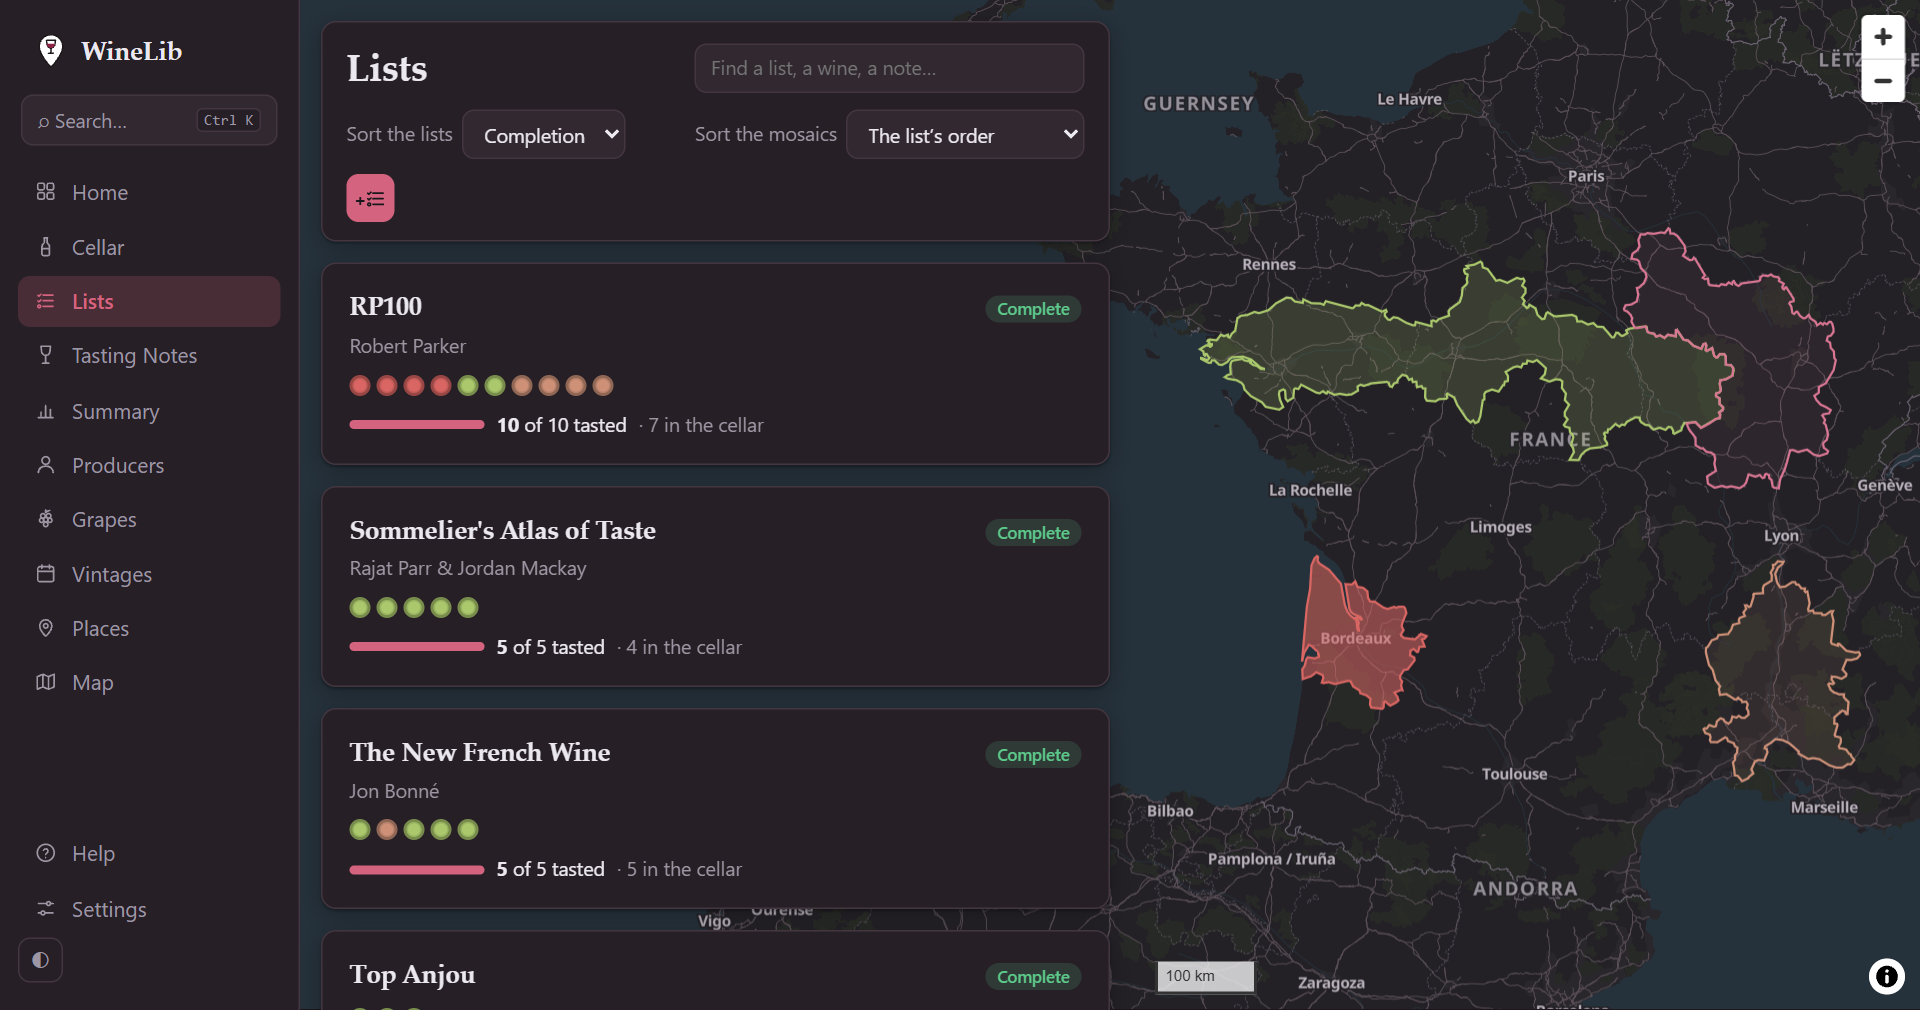
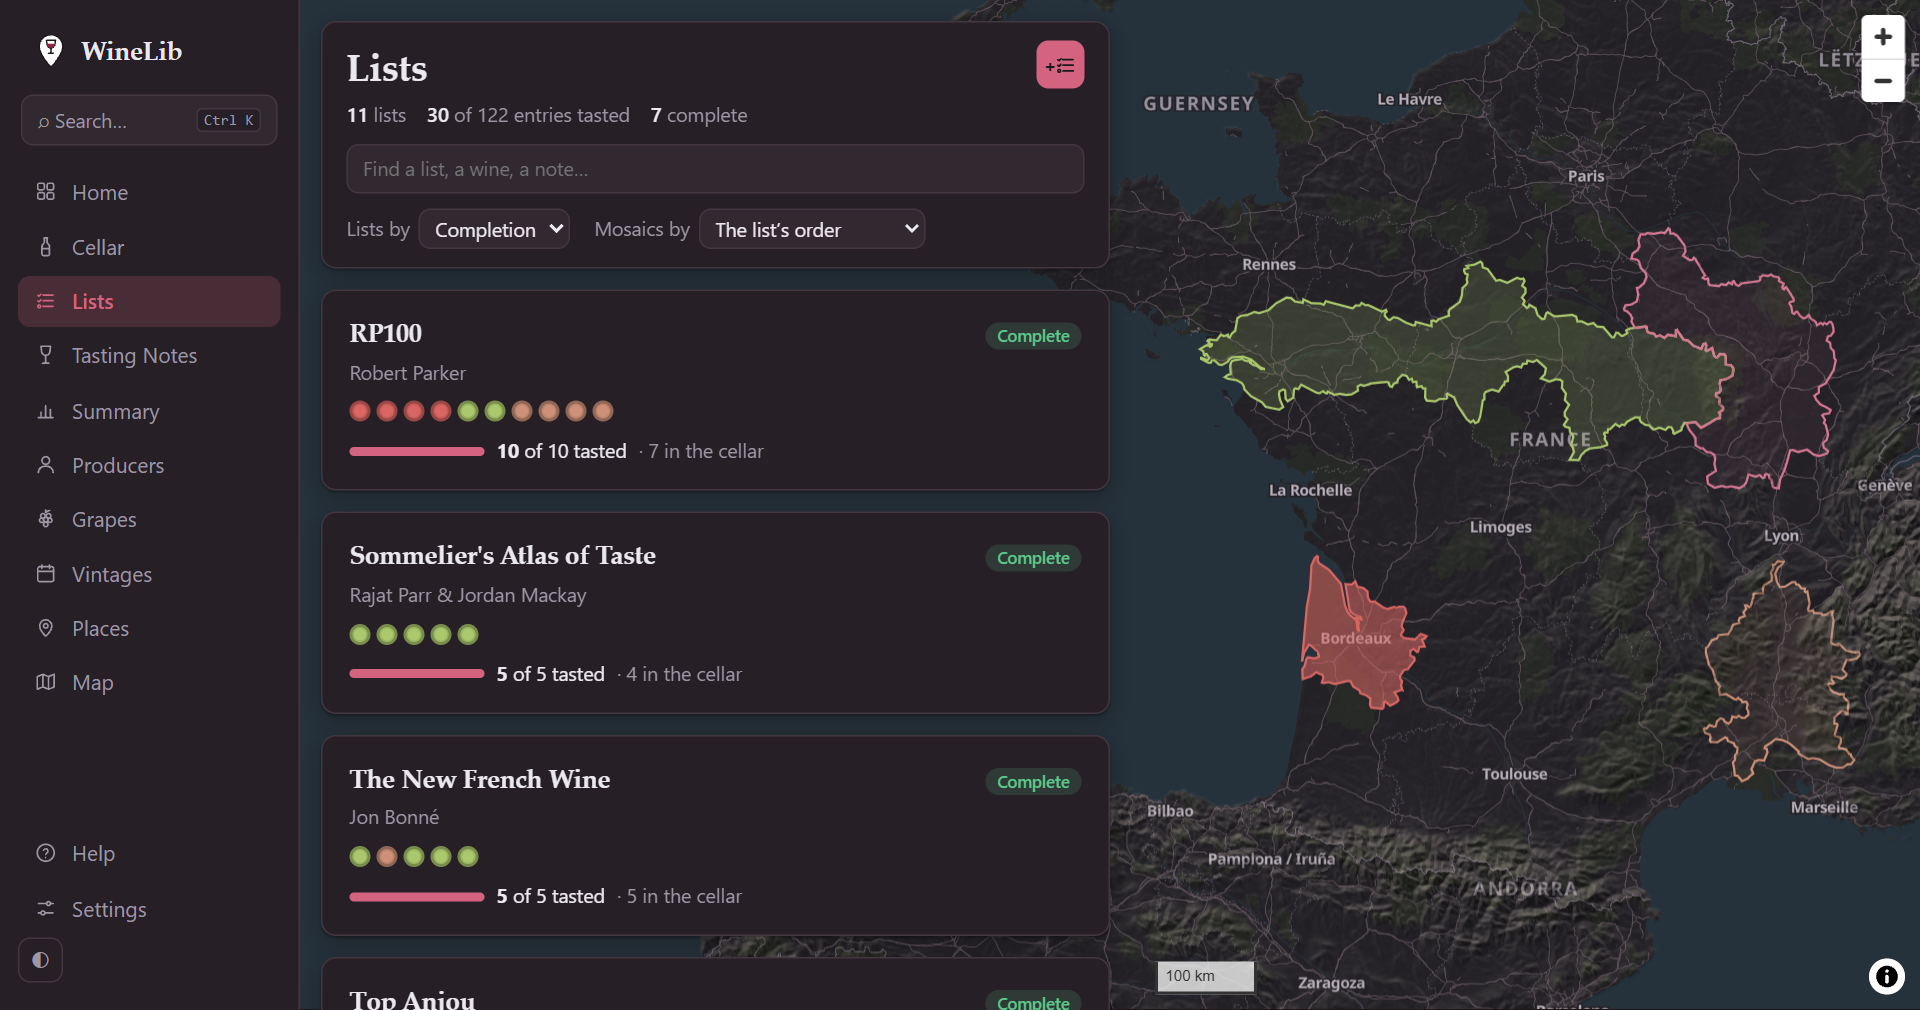
v0.9.1
The home map's label names the wine it shows when the last evening's wines lie
too far apart to frame together (HomeMap reports the wines it frames, bound as
`framed`); the README's and website's screenshots retaken for the new home,
cellar, lists and tasting notes pages, the phones and the walk-through.

diff --git a/app/web/src/lib/components/home/HomeMap.svelte b/app/web/src/lib/components/home/HomeMap.svelte
@@ -30,7 +30,8 @@
 		by = 'both',
 		counts = null,
 		caption = null,
-		column = 540
+		column = 540,
+		framed = $bindable(null)
 	}: {
 		minHeight?: number;
 		focus?: Focus | null;
@@ -42,6 +43,8 @@
 		caption?: string | null;
 		/** full: the page's column width over the map's left side (app.css: html.map-full main) */
 		column?: number;
+		/** an evening's wines the map frames (all of them, or the last alone when they lie far apart), once known */
+		framed?: number[] | null;
 	} = $props();
 
 	type By = 'both' | 'cellar' | 'tasted';
@@ -76,11 +79,11 @@
 	// An evening: its wines' shapes together when they lie within ~1° of the last one's (a Burgundy dinner), else
 	// the last one's alone (Champagne and Nuits-Saint-Georges: two specks on a map of France)
 	const NEAR = 1.2;
-	function together(all: Shapes[]): Shapes {
+	function together(all: Shapes[], ids: number[]): Shapes & { wines: number[] } {
 		const own = (p: Shapes) => (p.vineyards?.features.length ? p.vineyards : p.appellations)?.features ?? [];
 		const last = all.at(-1) ?? {};
 		const lastBox = own(last).length ? bbox(own(last).map((f) => f.geometry)) : null;
-		if (!lastBox) return last;
+		if (!lastBox) return { ...last, wines: ids.slice(-1) };
 		const near = all.filter((p) => {
 			if (!own(p).length) return false;
 			const box = bbox([...own(p), ...own(last)].map((f) => f.geometry));
@@ -94,8 +97,11 @@
 			});
 			return features.length ? ({ type: 'FeatureCollection', features } as MapCollection) : undefined;
 		};
+		const wines = ids.filter((_, i) => near.includes(all[i]));
 		// vineyards for all, or for none: a wine known only by its appellation would otherwise be left out unframed
-		return near.every((p) => p.vineyards?.features.length) ? { vineyards: merge('vineyards'), appellations: merge('appellations') } : { appellations: merge('appellations') };
+		return near.every((p) => p.vineyards?.features.length)
+			? { vineyards: merge('vineyards'), appellations: merge('appellations'), wines }
+			: { appellations: merge('appellations'), wines };
 	}
 	$effect(() => {
 		const key = focusKey;
@@ -104,11 +110,16 @@
 			return;
 		}
 		let stale = false;
-		const got =
+		const ids = key[0] === 'e' ? key.slice(1).split(',').map(Number) : [];
+		const got: Promise<Shapes & { wines?: number[] }> =
 			key[0] === 'e'
-				? Promise.all(key.slice(1).split(',').map((id) => shapesOf(`/api/wines/${id}/shapes`))).then(together)
+				? Promise.all(ids.map((id) => shapesOf(`/api/wines/${id}/shapes`))).then((all) => together(all, ids))
 				: shapesOf(key[0] === 'w' ? `/api/wines/${key.slice(1)}/shapes` : `/api/producers/${key.slice(1)}/shapes`);
-		got.then((p) => !stale && (place = { ...p, id: key }));
+		got.then((p) => {
+			if (stale) return;
+			place = { appellations: p.appellations, vineyards: p.vineyards, id: key };
+			if (p.wines) framed = p.wines;
+		});
 		return () => (stale = true);
 	});
 	// the focus's region, as it was when its shapes came (a region-only wine)

diff --git a/app/web/src/routes/+page.svelte b/app/web/src/routes/+page.svelte
@@ -67,6 +67,18 @@
 					? { wineId: lastWine.wine_id, region: lastWine.region, wineIds: [...new Set(evening!.wines.map((w) => w.wine_id))] }
 					: null
 	);
+	// the evening's wines the map frames (HomeMap: all, or the last alone when they lie far apart)
+	let framed = $state<number[] | null>(null);
+	const eveningLabel = $derived.by(() => {
+		if (!evening) return '';
+		const ids = [...new Set(evening.wines.map((w) => w.wine_id))];
+		const shown = framed?.length ? ids.filter((id) => framed!.includes(id)) : ids;
+		if (shown.length === 1) {
+			const w = evening.wines.findLast((x) => x.wine_id === shown[0])!;
+			return ids.length > 1 ? `${named(w)} (1 of ${ids.length} wines)` : named(w);
+		}
+		return shown.length < ids.length ? `${shown.length} of ${ids.length} wines` : `${ids.length} wines`;
+	});
 	const caption = $derived(
 		pinned
 			? `Where it was opened · ${evening?.name ?? ''}`
@@ -75,7 +87,7 @@
 				: pointed
 					? `Tasted · ${pointedName}`
 					: evening
-						? `Last opened · ${fmtDate(evening.date)}, ${evening.wines.length === 1 ? named(evening.wines[0]) : `${evening.wines.length} wines`}`
+						? `Last opened · ${fmtDate(evening.date)}, ${eveningLabel}`
 						: null
 	);
 	const shownBottle = $derived(shownWine?.kind === 'bottle' ? shownWine.id : null);
@@ -121,7 +133,7 @@
 
 <!-- The map is the page: the whole window behind a slim column, on the latest evening's vineyards (or the wine
      pointed at), a label over it saying which -->
-<HomeMap full column={400} by="tasted" {focus} {caption} />
+<HomeMap full column={400} by="tasted" {focus} {caption} bind:framed />
 
 <section class="card latest">
 	<div class="sec-head">

diff --git a/app/api/version.py b/app/api/version.py
@@ -1,3 +1,3 @@
 """The version this code is: the last release's, with "+dev" for what came after it. A release sets it to its tag
 without the "v" (the release workflow refuses a tag that doesn't match)."""
-VERSION = "0.9.0"
+VERSION = "0.9.1"

diff --git a/CHANGELOG.md b/CHANGELOG.md
@@ -1,6 +1,6 @@
 # Changelog
 
-## Unreleased
+## v0.9.1
 
 - **The home page is its map**: the map fills the window beside a slimmer column, opens on your last evening's
   vineyards (together when they lie close, else the last wine's) with their hills, and a label over it says what it
@@ -14,6 +14,10 @@
   Michelin stars, each "of" the whole when filtered.
 - The Lists page's top card tidied: the title with its figures (lists, entries tasted, lists complete) and the new list
   button beside it, the find box across, the two orders on a quiet line under it.
+- The home map's label names the wine it shows when the last evening's wines lie too far apart to frame together
+  ("Clos des Grandes Vignes 2021 (1 of 2 wines)"), instead of "2 wines" over a map showing one.
+- The README's and the website's screenshots retaken: the home page, the cellar, the lists, the tasting notes, the
+  phone shots and the walk-through.
 
 ## v0.9.0
 
